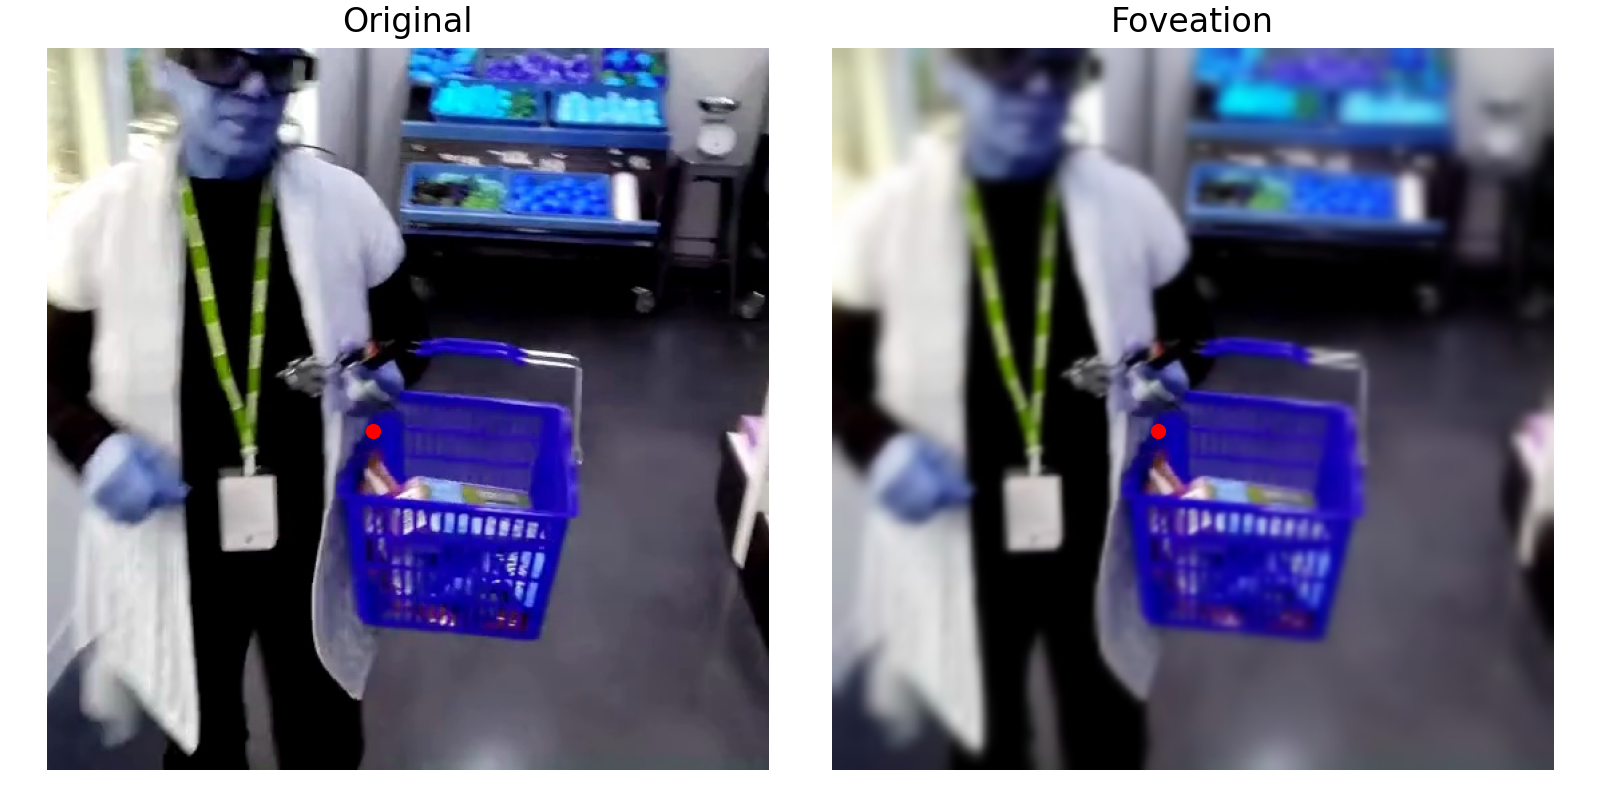
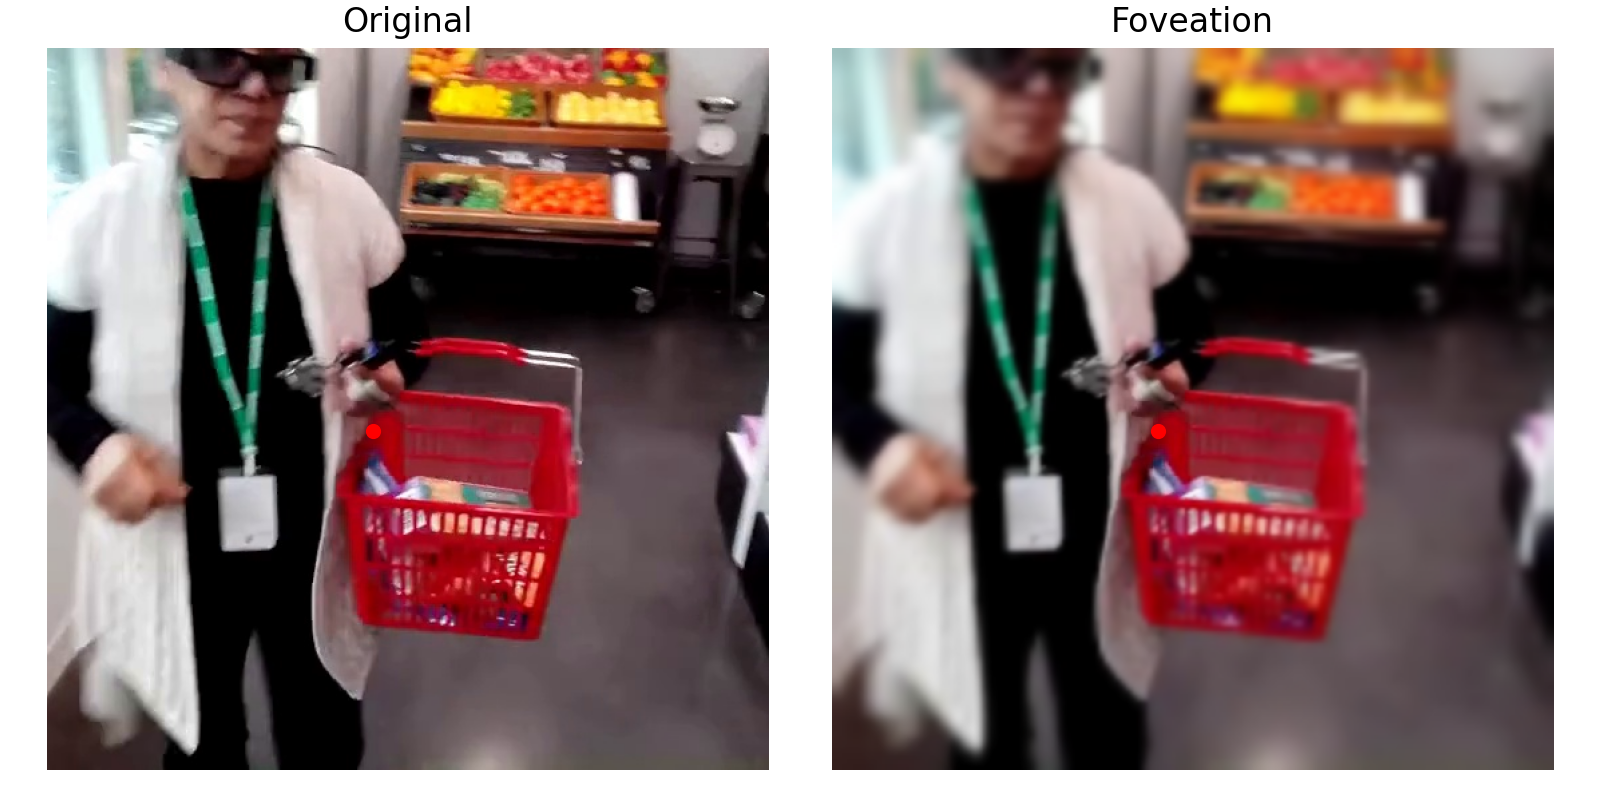
bugfix: converted images from BGR to RGB. included script for collecting results from wandb. removed redundant files.

diff --git a/foveation/viz.py b/foveation/viz.py
@@ -9,7 +9,6 @@ from pathlib import Path
 
 from foveation.gaze_crop import GazeCenteredCrop
 from foveation.radial_blur import RadialBlurFoveation
-from foveation.log_polar import LogPolarTransform
 from foveation.fcg import FovealCartesianGeometry
 
 
@@ -24,14 +23,18 @@ def main():
     with h5py.File(H5_PATH, "r") as hf:
         frame = hf.get("frames")[i]
         saliency = hf.get("saliency")[i]
-        frame = Image.open(io.BytesIO(frame))
+        frame = Image.open(io.BytesIO(frame)).convert("RGB")
+        # convert from BGR to RGB
+        frame = np.array(frame)[:, :, ::-1]
+        frame = Image.fromarray(frame)
     
-    # methods: crop, blur, log-polar, fcg, (tbc)
-    method = "fcg"
-    viz_fov(df, i, frame, method)
+    # methods: crop, blur, fcg
+    viz_fov(df, i, frame, "crop")
+    viz_fov(df, i, frame, "blur")
+    viz_fov(df, i, frame, "fcg")
     
-    # viz_fcg()
-    # viz_saliency(df, i, frame, saliency)
+    # viz_fcg_rings()
+    viz_saliency(df, i, frame, saliency)
 
 
 def viz_fov(df, index, frame, method):
@@ -43,12 +46,8 @@ def viz_fov(df, index, frame, method):
         out = GazeCenteredCrop()(frame, row)
     elif method == "blur":  # wip
         out = RadialBlurFoveation()(frame, row)
-    elif method == "log-polar":  # wip
-        out = LogPolarTransform()(frame, row)
     elif method == "fcg":  # wip
         out = FovealCartesianGeometry()(frame, row)
-    elif method == "(tbc)":  # wip
-        out = frame
     else:
         out = frame
 
@@ -77,7 +76,7 @@ def viz_fov(df, index, frame, method):
     print(f"Saved {file_name}")  
     
 
-def viz_fcg():
+def viz_fcg_rings():
     # visualizes "mapping onto rings of original image"
     fcg = FovealCartesianGeometry(p0=15, pmax=100, nR=30)
     canvas = np.zeros((fcg.fovea_size, fcg.fovea_size), dtype=np.int32)
@@ -123,7 +122,6 @@ def viz_saliency(df, index, frame, saliency):
 
     out_path.parent.mkdir(parents=True, exist_ok=True)
     plt.savefig(out_path, dpi=200)
-
     print("Saved ego4d_example.png")  
 
 

diff --git a/solo/data/custom/ego4d.py b/solo/data/custom/ego4d.py
@@ -10,6 +10,8 @@ from PIL import Image
 from torch.utils.data import Dataset
 
 from foveation.gaze_crop import GazeCenteredCrop
+from foveation.radial_blur import RadialBlurFoveation
+from foveation.fcg import FovealCartesianGeometry
 
 
 class Ego4d(Dataset):
@@ -34,6 +36,9 @@ class Ego4d(Dataset):
     def open_image(self, idx: int) -> Image.Image:
         bin_img = self.hdf5_file.get("frames")[idx]
         img = Image.open(io.BytesIO(bin_img)).convert("RGB")
+        # convert from BGR to RGB
+        img = np.array(img)[:, :, ::-1]
+        img = Image.fromarray(img)
         return img
 
     def __len__(self) -> int:
@@ -70,18 +75,18 @@ class Ego4d(Dataset):
         return self.transform(img, img_pair), -1
 
 
-# maybe move to own "factory" file
+# maybe move to own "factory" file when playing around with more parameters
 def build_foveation(fov_type):
     
     if fov_type is None:
         return None
-
-    if fov_type == "none":
+    elif fov_type == "none":
         return None
-
-    if fov_type == "gaze_crop":
+    elif fov_type == "crop":
         return GazeCenteredCrop()
-
-    # insert other types here
-
-    raise ValueError(f"Unknown foveation type: {fov_type}") 
+    elif fov_type == "blur":
+        return RadialBlurFoveation()
+    elif fov_type == "fcg":
+        return FovealCartesianGeometry()
+    else:
+        raise ValueError(f"Unknown foveation type: {fov_type}") 

diff --git a/foveation/analysis/wandb_results.py b/foveation/analysis/wandb_results.py
@@ -1,0 +1,44 @@
+import wandb
+import pandas as pd
+from tqdm import tqdm
+
+
+def flatten_dict(d, parent_key='', sep='.'):
+    """
+    Flatten a nested dictionary.
+
+    Args:
+        d (dict): The dictionary to flatten.
+        parent_key (str): The base key string to use for nested keys.
+        sep (str): The separator to use for concatenating keys.
+
+    Returns:
+        dict: A flat dictionary with dot-separated keys.
+    """
+    items = []
+    for k, v in d.items():
+        new_key = f"{parent_key}{sep}{k}" if parent_key else k
+        if isinstance(v, dict):
+            items.extend(flatten_dict(v, new_key, sep=sep).items())
+        elif isinstance(v, list):
+            continue
+        else:
+            items.append((new_key, v))
+    return dict(items)
+
+
+def collect_wandb(project_name="eliasmeinecke-uni-frankfurt/bachelorthesis", filters=None):
+    api = wandb.Api()
+    runs = api.runs(project_name, filters=filters)
+
+    df = []
+    for run in tqdm(runs):
+        df.append({
+            **{k: v for k, v in run.summary.items() if isinstance(v, (int, str, float))},
+            **{'name': run.name, 'id': run.id},
+            **flatten_dict(run.config)
+        })
+    return pd.DataFrame(df)
+
+
+df = collect_wandb(filters={'group': 'crop'})

diff --git a/solo/args/dataset.py b/solo/args/dataset.py
@@ -72,7 +72,7 @@ def augmentations_args(parser: ArgumentParser):
     # other augmentation probabilities
     parser.add_argument("--gray_scale_prob", type=float, default=[0.2], nargs="+")
     parser.add_argument("--horizontal_flip_prob", type=float, default=[0.5], nargs="+")
-    parser.add_argument("--gaussian_prob", type=float, default=[0.5], nargs="+")
+    # parser.add_argument("--gaussian_prob", type=float, default=[0.5], nargs="+")
     parser.add_argument("--solarization_prob", type=float, default=[0.0], nargs="+")
     parser.add_argument("--equalization_prob", type=float, default=[0.0], nargs="+")
 

diff --git a/solo/data/pretrain_dataloader.py b/solo/data/pretrain_dataloader.py
@@ -274,8 +274,8 @@ def build_transform_pipeline(dataset, cfg):
     if cfg.grayscale.prob:
         augmentations.append(transforms.RandomGrayscale(p=cfg.grayscale.prob))
 
-    if cfg.gaussian_blur.prob:
-        augmentations.append(transforms.RandomApply([GaussianBlur()], p=cfg.gaussian_blur.prob))
+    # if cfg.gaussian_blur.prob:
+    #    augmentations.append(transforms.RandomApply([GaussianBlur()], p=cfg.gaussian_blur.prob))
 
     if cfg.solarization.prob:
         augmentations.append(transforms.RandomApply([Solarization()], p=cfg.solarization.prob))
